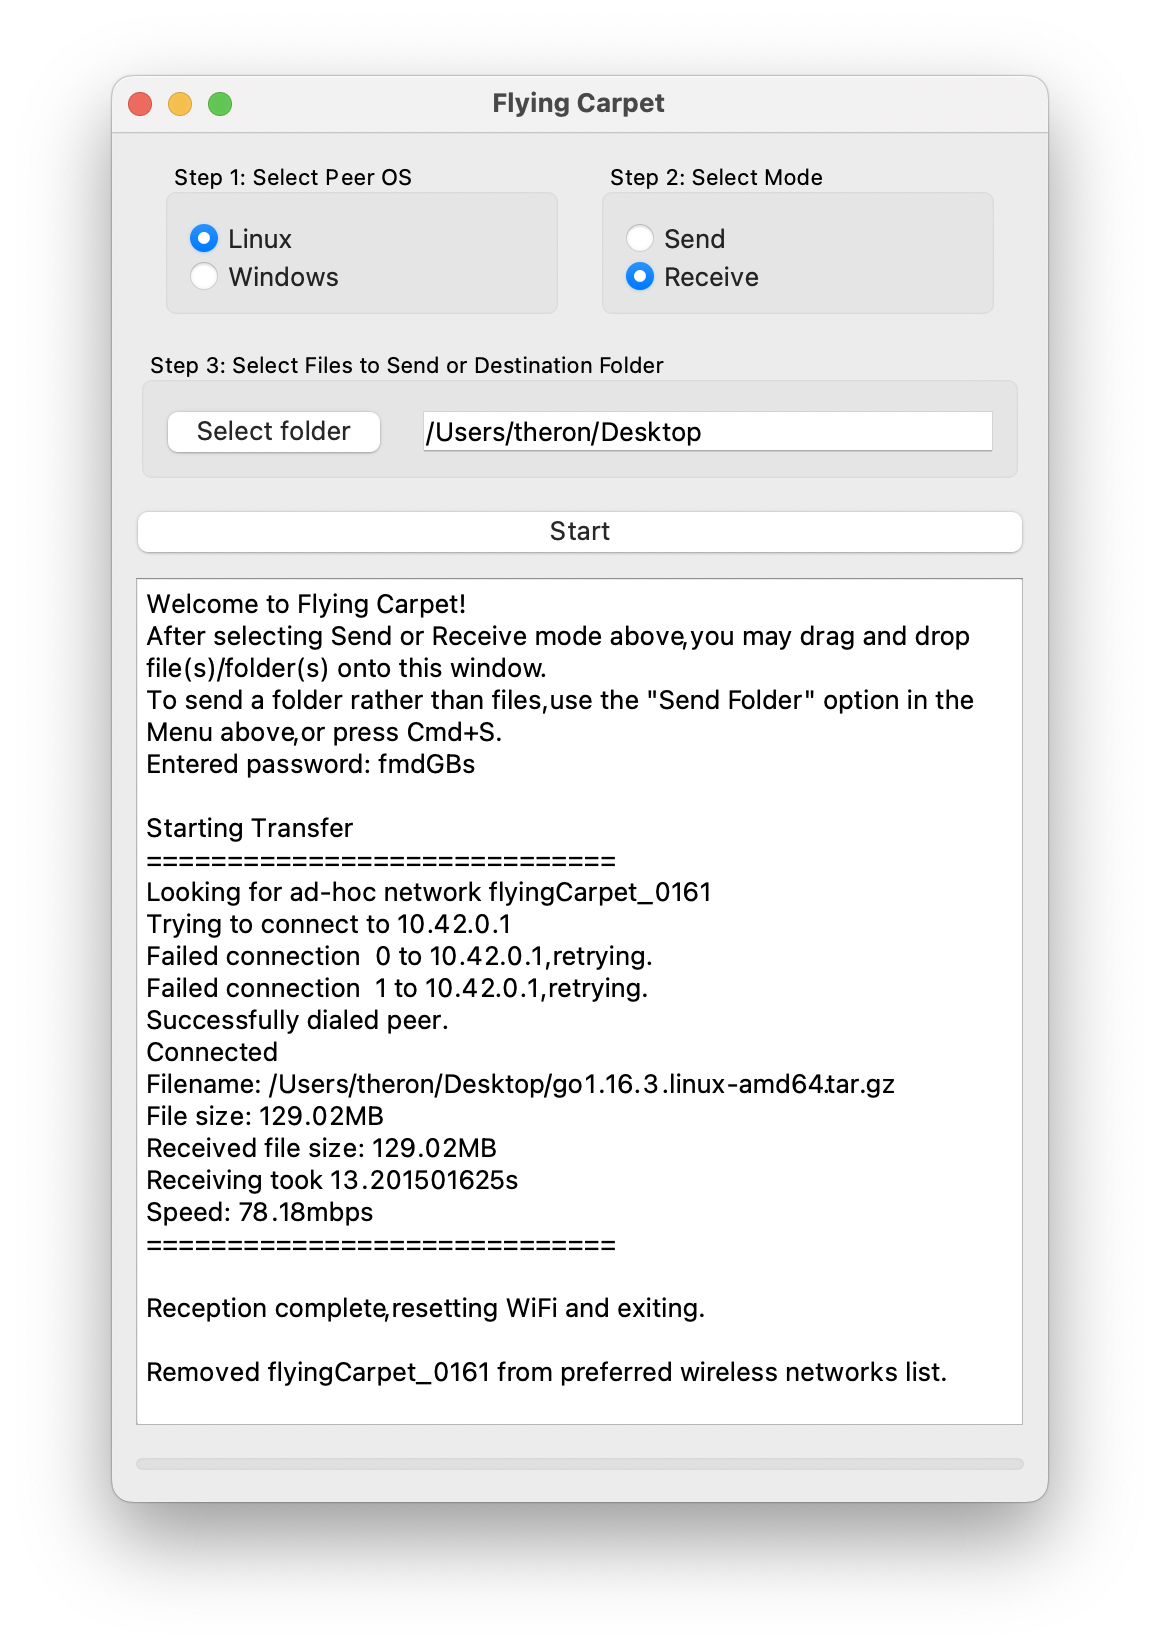
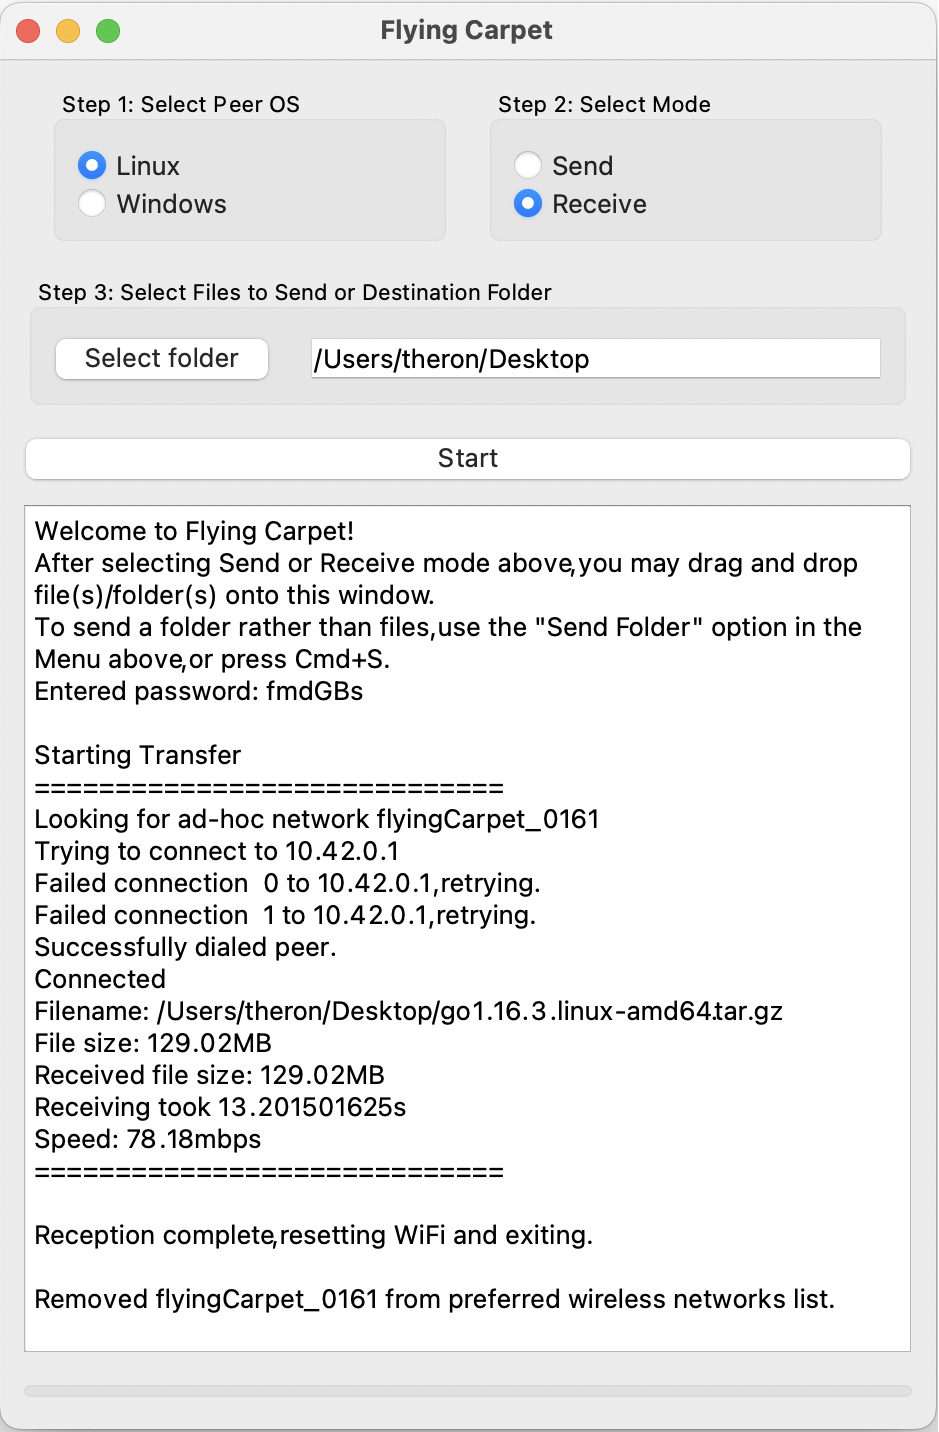
resize, edit picture

diff --git a/README.md b/README.md
@@ -8,7 +8,7 @@ Don't have a flash drive? Don't have access to a wireless network or don't trust
 
 # Screenshots:
 
-<img src="pictures/winDemo.png" width=400> <img src="pictures/macDemo.png" width=400> <img src="pictures/linuxDemo.png" width=400>
+<img src="pictures/iosDemo.png" height=726> <img src="pictures/winDemo.png" height=726> <img src="pictures/macDemo.png" height=726> <img src="pictures/linuxDemo.png" height=726>
 
 # Features:
 
